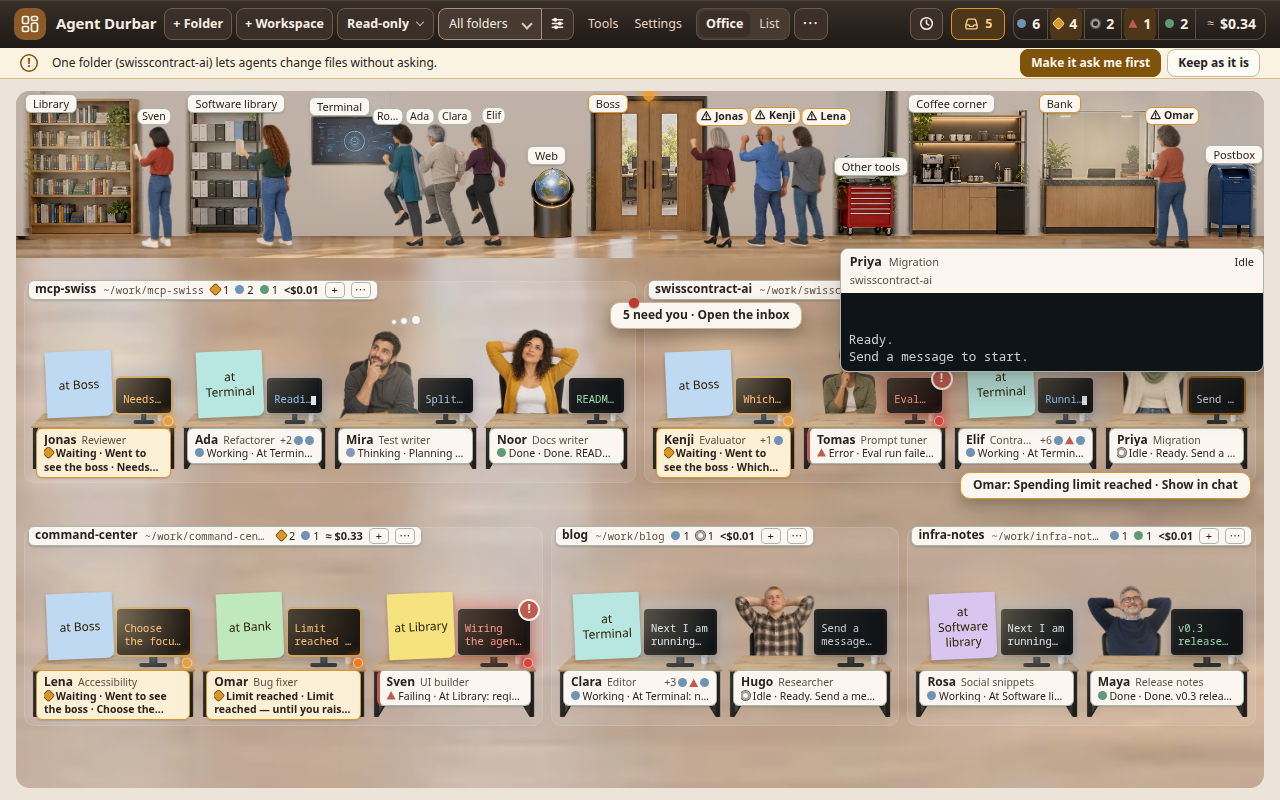
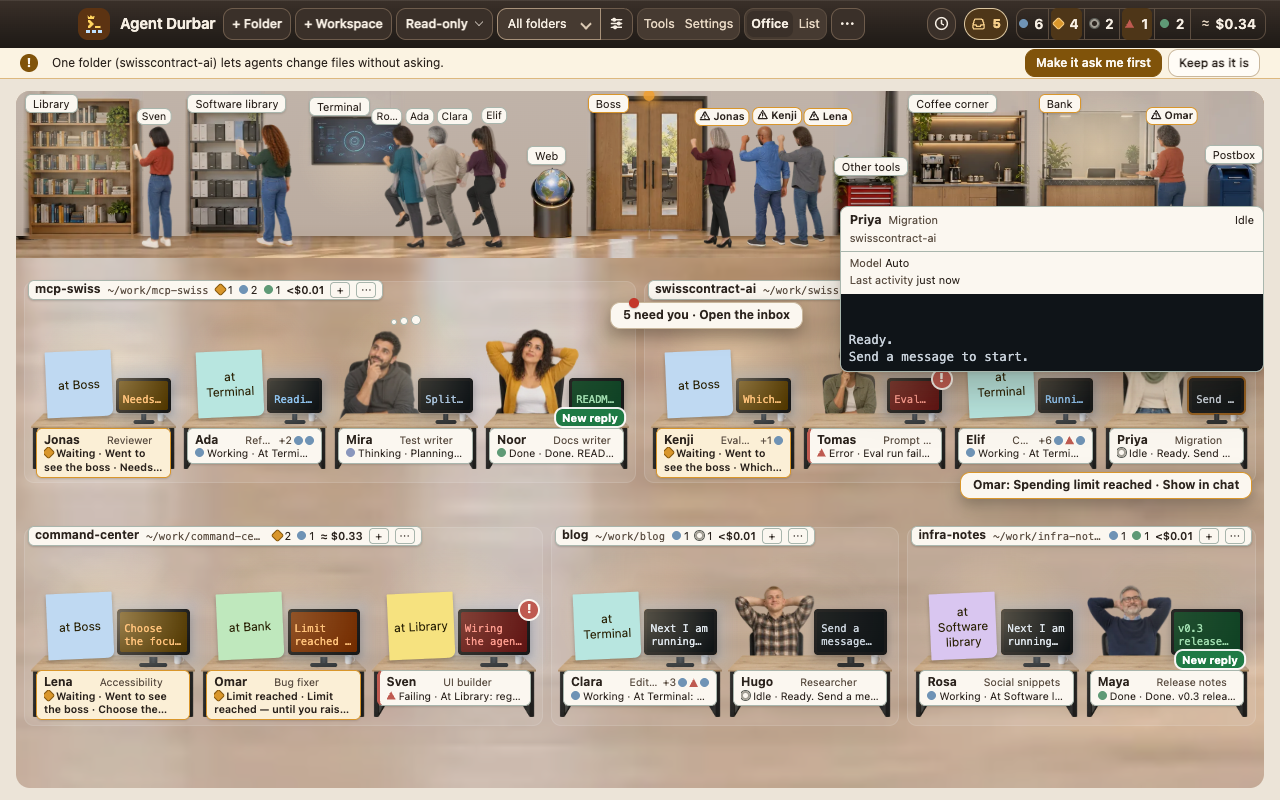
Real office: model, usage, cost, context and last tool in the zoom (#1148)

diff --git a/src/renderer/realoffice.js b/src/renderer/realoffice.js
@@ -324,7 +324,7 @@
     if (ZOOM && !ZOOM.panel.isConnected) closeZoom();
     const sized = view.w + 'x' + view.h, sameSize = !!CUR && CUR.sized === sized && !!CUR.painted;
     const wasLive = CUR && CUR.ro === ro ? CUR.live : undefined;
-    CUR = { pixelArt: !!meta.pixelArt, ro, live: opts.live, screenOf: opts.screenOf || null, sized, still: !!opts.still, hold: !!opts.hold, desks: new Map(lay.zones.flatMap((z) => z.desks.map((d) => [d.id, d])).concat(lay.lounge ? lay.lounge.desks.map((d) => [d.id, d]) : [])), agents: new Map(model.folders.flatMap((f) => f.agents.map((a) => [a.id, { ...a, folder: f.name }]))), drawn, scroll: !!lay.scroll };
+    CUR = { pixelArt: !!meta.pixelArt, ro, live: opts.live, screenOf: opts.screenOf || null, factsOf: opts.factsOf || null, sized, still: !!opts.still, hold: !!opts.hold, desks: new Map(lay.zones.flatMap((z) => z.desks.map((d) => [d.id, d])).concat(lay.lounge ? lay.lounge.desks.map((d) => [d.id, d]) : [])), agents: new Map(model.folders.flatMap((f) => f.agents.map((a) => [a.id, { ...a, folder: f.name }]))), drawn, scroll: !!lay.scroll };
     SLIDE = sameSize && moving() && !hiddenNow();
     CUR.painted = true;
     ro.classList.toggle('paused', hiddenNow()); if (hiddenNow()) finishMoves(ro);
@@ -809,7 +809,7 @@
     if (data.caret && !s.caret) { s.caret = document.createElement('i'); s.caret.className = 'ro-caret'; s.box.appendChild(s.caret); const m = L.personMotion(id, 'typeA', d.state); setVar(s.caret, '--ro-per', '1.2s'); s.caretMs = m.offset; if (moving()) { clock(s.caret, m.offset); if (CUR && !CUR.pixelArt) onGrid(s.caret); }; }
     else if (!data.caret && s.caret) { s.caret.remove(); s.caret = null; }
     s.painted = true;
-    if (ZOOM && ZOOM.id === id) fillZoom();
+    if (ZOOM && ZOOM.id === id) { const k = ZOOM.kh; fillZoom(); if (k !== ZOOM.kh) placeZoom(); }
   }
 
   /* FR-074: a window hidden or back; FR-181: desks scrolled away stand still and do not paint, and catch up once when they are back */
@@ -853,6 +853,7 @@
 
   /* ---- FR-034: the zoom ---- */
   const ZOOM_W = [380, 480], ZOOM_HEAD = 44, ZOOM_LH = 17, ZOOM_ROWS = 12, ZOOM_MIN_ROWS = 4;
+  const ZWIDE = new Set(['Model', 'Now', 'Last tool', 'Usage']);
   function wireZoom(ro) {
     let wait = 0;
     ro.addEventListener('pointermove', (e) => {
@@ -891,7 +892,7 @@
     if (!ZOOM || ZOOM.id !== id) {
       closeZoom();
       const p = document.createElement('div'); p.className = 'ro-zoom'; p.id = 'roZoom'; p.setAttribute('role', 'region');
-      p.innerHTML = '<div class="ro-zh"><b></b><span class="ro-zr"></span><span class="ro-zs"></span><span class="ro-zf"></span></div><div class="ro-zb"><div class="ro-zl"></div></div>';
+      p.innerHTML = '<div class="ro-zh"><b></b><span class="ro-zr"></span><span class="ro-zs"></span><span class="ro-zf"></span></div><div class="ro-zk"></div><div class="ro-zb"><div class="ro-zl"></div></div>';
       CUR.ro.appendChild(p);
       ZOOM = { id, hover: false, focus: false, panel: p, plate: CUR.ro.querySelector('.ro-plate[data-id="' + CSS.escape(id) + '"]') };
       if (ZOOM.plate) ZOOM.plate.setAttribute('aria-describedby', 'roZoom');
@@ -923,6 +924,12 @@
     const data = CUR.screenOf(ZOOM.id, d.state, a.word);
     const host = p.querySelector('.ro-zl');
     fillRows(host, data.lines);
+    /* spec 097 FR-312: the facts, label and text, two to a line; textContent only */
+    const facts = (CUR.factsOf ? CUR.factsOf(ZOOM.id) : []).slice(0, 8), kb = p.querySelector('.ro-zk');
+    kb.textContent = '';
+    for (const [k, v] of facts) { const l = document.createElement('span'); l.className = ZWIDE.has(k) ? 'ro-zi ro-zw' : 'ro-zi'; const kk = document.createElement('span'); kk.className = 'ro-zy'; text(kk, k); l.appendChild(kk); l.appendChild(document.createTextNode(' ')); const vv = document.createElement('span'); vv.className = 'ro-zv'; text(vv, v); l.appendChild(vv); kb.appendChild(l); }
+    const wide = facts.filter(([k]) => ZWIDE.has(k)).length; /* long ones take a whole line, cut with an ellipsis when too long (FR-313) */
+    ZOOM.kh = facts.length ? (wide + Math.ceil((facts.length - wide) / 2)) * ZOOM_LH + 8 : 0; kb.hidden = !facts.length;
     ZOOM.rows = data.lines.reduce((n, l) => n + Math.max(1, Math.ceil(Array.from(l.t).length / 52)), 0);
   }
   function placeZoom() {
@@ -932,10 +939,10 @@
     if (ZOOM.plate) avoid.push(near(ZOOM.plate));
     const view = { x: Math.max(0, f.left - o.left), y: Math.max(0, f.top - o.top), w: Math.min(f.right, o.right) - Math.max(f.left, o.left), h: Math.min(f.bottom, o.bottom) - Math.max(f.top, o.top) };
     const w = Math.max(ZOOM_W[0], Math.min(ZOOM_W[1], view.w * 0.34));
-    const rows = Math.max(ZOOM_MIN_ROWS, Math.min(ZOOM_ROWS, ZOOM.rows || 0));
-    const r = X().zoomRect(d.screen, avoid, view, { w, h: ZOOM_HEAD + rows * ZOOM_LH + 12, minH: ZOOM_HEAD + ZOOM_MIN_ROWS * ZOOM_LH + 12 });
+    const HEAD = ZOOM_HEAD + (ZOOM.kh || 0), rows = Math.max(ZOOM_MIN_ROWS, Math.min(ZOOM_ROWS, ZOOM.rows || 0));
+    const r = X().zoomRect(d.screen, avoid, view, { w, h: HEAD + rows * ZOOM_LH + 12, minH: HEAD + ZOOM_MIN_ROWS * ZOOM_LH + 12 });
     box(ZOOM.panel, r); ZOOM.panel.dataset.side = r.side;
-    setVar(ZOOM.panel, '--ro-zh', Math.max(1, Math.floor((r.h - ZOOM_HEAD - 8) / ZOOM_LH)) * ZOOM_LH + 'px');
+    setVar(ZOOM.panel, '--ro-zh', Math.max(1, Math.floor((r.h - HEAD - 8) / ZOOM_LH)) * ZOOM_LH + 'px');
     /* what the panel covers whole stands still until it closes */
     const under = [];
     for (const [id, de] of CUR.desks) if (id !== ZOOM.id && de.person && de.person.x >= r.x && de.person.x + de.person.w <= r.x + r.w && de.person.y >= r.y && de.person.y + de.person.h <= r.y + r.h) { under.push(id); setOff(id, true); }

diff --git a/src/renderer/app.js b/src/renderer/app.js
@@ -952,15 +952,22 @@ function grownLine(a){
 }
 /* spec 001 FR-047: the side of a wide grown desk: the last reply (when the main text is not already showing it) and the facts (the tool of
    this turn, usage, context, time). Shown only when the render pass gives the card two or three columns (data-gc); hidden in the probe. */
-function grownSideHTML(a){
-  if(a.parent)return '';
-  const rep=grownShowsReply(a)?'':replyExcerpt(a), r=liveShown(a), facts=[];
-  if(r&&r.tool)facts.push([r.kind==='tool'?'Now':'Last tool',r.tool]);
+/* the facts of a desk in the flat office's words (FR-047), shared by the grown desk's side and the Real office zoom (spec 097 FR-312): [[label, text]] */
+function deskFacts(a,withModel){
+  const facts=[], r=liveShown(a);
+  if(withModel&&a.live&&a.info){try{const m=modelLabel(a.info).text;if(m)facts.push(['Model',m]);}catch(e){}}
+  if(r&&r.tool)if(LIVE_MASK)facts.push([r.kind==='tool'?'Now':'Last tool',LIVE_MASK.home(r.tool)]); /* the readout's tool phrase is masked for secrets; the log lines also lose home paths (FR-314) */
   const u=usageLong(a);
   if(u){const p=u.split(' · ');if(p.length>2){facts.push(['Usage',p.slice(0,2).join(' · ')]);facts.push(['Cost',p.slice(2).join(' · ')]);}else facts.push(['Usage',u]);}
   try{const c=window.DurbarScreens&&window.DurbarScreens.ctxChip(a);if(c&&c.cls!=='unk')facts.push(['Context',c.text.replace(/^Context /,'')]);}catch(e){}
   const busy=a.busySince&&(a.state==='working'||a.state==='thinking')?ACT.agoLong(Date.now()-a.busySince):'', last=ACT.agoLong(sinceLast(a));
   if(busy)facts.push(['On this task',busy==='just now'?'just started':busy.replace(/ ago$/,'')]); else if(last)facts.push(['Last activity',last]);
+  return facts;
+}
+const realFacts=id=>{const a=byId(id);return a&&!a.parent?deskFacts(a,true).map(([k,v])=>[k,deskMask(v)]):[];}; /* the desk readout's own masker: home paths too (FR-314) */
+function grownSideHTML(a){
+  if(a.parent)return '';
+  const rep=grownShowsReply(a)?'':replyExcerpt(a), facts=deskFacts(a,false);
   return `<span class="gx"${rep?' data-rep="1"':''}>${rep?`<span class="gx-r"><span class="gx-h">Last reply</span><span class="gx-t">${esc(rep)}</span></span>`:''}<span class="gx-f">${facts.map(([k,v])=>`<span class="gx-l"><span class="gx-k">${esc(k)}</span> ${esc(v)}</span>`).join('')}</span></span>`;
 }
 const liveAttrs=a=>{if(a.parent)return '';const r=LIVE_SIDE?null:liveShown(a);return ` data-live="${esc(a.id)}"${r?` data-lk="${r.kind}"`:''}`;};
@@ -1765,7 +1772,7 @@ function renderReal(stage,floor,aw,ah,model,empty){
   }
   if(stage.dataset.d!=='real'){stage.dataset.d='real';stage.textContent='';}
   layoutKey='';GROW=0;setGrow(stage,0);spreadOffice(stage,false);stagePrev=null;
-  RO_LAST=window.DurbarRealOffice.render(stage,Object.assign(realModel(model),empty?{empty}:{}),{w:aw,h:ah},{live:liveOn(),still:REDUCED||!MOTION||STILL_HL,hold:roFrozen(),screenOf:realScreen,world:pp.world,set:pp.set,remember:rememberOn(), /* FR-071: Settings > Motion (still above) stops the people */
+  RO_LAST=window.DurbarRealOffice.render(stage,Object.assign(realModel(model),empty?{empty}:{}),{w:aw,h:ah},{live:liveOn(),still:REDUCED||!MOTION||STILL_HL,hold:roFrozen(),screenOf:realScreen,factsOf:realFacts,world:pp.world,set:pp.set,remember:rememberOn(), /* FR-071: Settings > Motion (still above) stops the people */
     rand:CREW&&(SIM||!rememberOn())?CREW.seededRand:Math.random,onArt:()=>scheduleRender()});
   stage.style.width=aw+'px';stage.style.height=RO_LAST.height+'px';
   stage.dataset.fit=RO_LAST.scroll?'scroll':'ok';floor.classList.toggle('scrolls',!!RO_LAST.scroll);

diff --git a/scripts/shots-097-screens.js b/scripts/shots-097-screens.js
@@ -156,7 +156,7 @@ module.exports = async (ctx) => {
         return {w:b.width,h:b.height,side:P.dataset.side,inWin:b.left>=0&&b.top>=0&&b.right<=innerWidth&&b.bottom<=innerHeight,inFloor:b.left>=fl.left-0.5&&b.right<=fl.right+0.5&&b.top>=fl.top-0.5&&b.bottom<=fl.bottom+0.5,
           own:hit(own),needs:[...document.querySelectorAll('.ro-plate:is(.st-waiting,.st-limit),.ro-lplate.wait,.ro-chip.wait')].filter(hit).map(e=>e.textContent.slice(0,20)),
           font:rows.length?parseFloat(getComputedStyle(rows[0]).fontSize):0,fonts:[...P.querySelectorAll('.ro-zh *')].map(e=>parseFloat(getComputedStyle(e).fontSize)),role:P.getAttribute('role'),name:P.getAttribute('aria-label'),live:P.getAttribute('aria-live'),
-          blur:getComputedStyle(P).backdropFilter,desc:own.getAttribute('aria-describedby'),head:P.querySelector('.ro-zh').textContent,rows:rows.length,text:P.textContent,
+          blur:getComputedStyle(P).backdropFilter,desc:own.getAttribute('aria-describedby'),head:P.querySelector('.ro-zh').textContent,rows:rows.length,text:P.textContent,facts:[...P.querySelectorAll('.ro-zk .ro-zi')].map(e=>e.textContent),kfonts:[...P.querySelectorAll('.ro-zk *')].map(e=>parseFloat(getComputedStyle(e).fontSize)),kclip:[...P.querySelectorAll('.ro-zk .ro-zi')].filter(e=>!/^(Now|Last tool) /.test(e.textContent)).some(e=>e.scrollWidth>e.clientWidth+1),kin:(()=>{const k=P.querySelector('.ro-zk');if(!k||k.hidden)return true;const q=k.getBoundingClientRect();return q.bottom<=b.bottom&&q.top>=b.top&&q.right<=b.right+0.5;})(),
           lastVisible:rows.length?(()=>{const l=rows[rows.length-1].getBoundingClientRect();return l.bottom<=b.bottom&&l.top>=b.top;})():false,
           tags:P.querySelectorAll('a,img,script').length,under:document.elementFromPoint(${p.x},${p.y})&&document.elementFromPoint(${p.x},${p.y}).closest('.ro-zoom')?1:0};})()`);
       assert.ok(z.w >= 380 && z.w <= 480, i + ': 380-480 px wide: ' + z.w);
@@ -169,9 +169,14 @@ module.exports = async (ctx) => {
       assert.strictEqual(z.desc, 'roZoom', 'its plate is described by it');
       assert.strictEqual(z.blur, 'none', 'FR-182: no blur');
       assert.ok(z.rows >= 1 && z.lastVisible, 'the newest line in view');
+      /* spec 097 FR-312..FR-314: the facts in the flat office's words, readable, inside the panel, nothing but text */
+      assert.ok(z.facts.some((f) => /^Model /.test(f)), i + ': the zoom names the model: ' + JSON.stringify(z.facts));
+      assert.ok(z.facts.every((f) => /^(Model|Now|Last tool|Usage|Cost|Context|On this task|Last activity) /.test(f)), i + ': only the flat office\'s labels: ' + JSON.stringify(z.facts));
+      assert.ok(z.kfonts.length && z.kfonts.every((f) => f >= 10.5), i + ': the facts at least 10.5 px');
+      assert.ok(z.kin && !z.kclip, i + ': the facts inside the panel, no clipped item: ' + JSON.stringify(z.facts));
       assert.strictEqual(z.tags, 0, 'text only');
       assert.strictEqual(z.under, 0, 'it does not cover the pointer\'s screen');
-      for (const bad of ['ghp_', 'A1b2C3d4', 'alice', 'evil.example']) assert.ok(!z.text.includes(bad), `the zoom shows "${bad}"`);
+      for (const bad of ['ghp_', 'A1b2C3d4', 'alice', 'evil.example']) assert.ok(!z.text.includes(bad), `the zoom shows "${bad}": ${JSON.stringify(z.facts)} ${z.head}`);
       placed[z.side] = (placed[z.side] || 0) + 1;
     }
     console.log('[097-screens] zoom sides', w, h, JSON.stringify(placed));

diff --git a/src/renderer/realoffice.css b/src/renderer/realoffice.css
@@ -67,6 +67,11 @@
 .ro-zr,.ro-zf{color:var(--muted);white-space:nowrap;overflow:hidden;text-overflow:ellipsis}
 .ro-zs{white-space:nowrap;overflow:hidden;text-overflow:ellipsis;text-align:right}
 .ro-zf{grid-column:1/-1}
+.ro-zk{flex:none;display:grid;grid-template-columns:1fr 1fr;column-gap:12px;padding:2px 9px 6px;font-size:11px;line-height:17px;border-top:1px solid var(--line)}
+.ro-zk[hidden]{display:none}
+.ro-zi{white-space:nowrap;overflow:hidden;text-overflow:ellipsis;min-width:0}
+.ro-zw{grid-column:1/-1}
+.ro-zy{color:var(--muted)}
 .ro-zb{position:relative;flex:1;min-height:0;overflow:hidden;background:#0f1418}
 .ro-zl .ro-sl{flex:none} /* whole lines, the newest in view */
 .ro-zoom[data-state="error"] .ro-zb{background:#1d1111}.ro-zoom:is([data-state="waiting"],[data-state="limit"]) .ro-zb{background:#1b1610}

diff --git a/docs/features.md b/docs/features.md
@@ -14,7 +14,7 @@ Where each feature works (Flat, Real office, worlds): [feature inventory](featur
 - **Still highlights (no motion)** (spec 001 FR-192, issue 780, WCAG 2.2.2): a desk that needs you or has a New reply tints its monitor's screen and its person keeps jumping and pulsing until you answer. **Settings > Highlights > Still highlights** keeps the tint and the New badge but stops that movement: the pulsing, the badge's pings and pulse, the waiting person's waving hand and the tap on the desk after a minute; in Real office the whole room stands still. It is not the same as your system's reduced motion setting, which stops every animation (some small ones, such as a theme's own figures, only follow that). Off by default; saved on this computer. A failed save says so and the switch shows what is really saved.
 - **A status pill says what it hides** (spec 001 FR-180, FR-181, issue 790): the counts in the top bar (Working, Waiting, Idle, Error, Done) are also filters. While one is on, the office and List show **Showing only idle · 3 hidden · Show all** (Show all is the same toggle as pressing the pill again; a screen reader is told once; a hidden session that needs you is named, for example *3 hidden (1 needs you)*), so a finished session the filter hides does not look lost. The chat strip still lists every open chat. Checked on the simulator only (`npm run check:ui -- --only check-status-filter`, both sizes); the reported case is not confirmed on a real run.
 - **No doors** (spec 017, removed on 2026-10-31 by the owner's decision): a session is a desk, and the plain status word (Working, Thinking, Waiting for you, Error, ...) tells its state. There are no cabin doors, meeting-room signs, desk door button, room door plates or **Close all** / **Open all**, and the layouts are **Open office** and **Real office** (the cabins choice of the **Office layout** setting is gone). **Hide folder** and floors stay. A scheduled prompt that was held behind a closed door when you updated is **never sent and never lost on its own**: one notice asks once whether to **Send** (one by one, through the schedules, so Pause all and each schedule's own limit still apply), **Discard**, or **Decide later** (the default, and Escape); what you leave undecided stays in Settings > Schedules as **Held from before the update**, with the same two actions. Every schedule now runs as normal, including those of a session that had a closed door. Remote control that a door had turned off stays off; the update never turns it on, and turning it on still needs its own confirmation. Lost with the doors, listed in spec 017: one click to hold a session's scheduled prompts (use Pause or Pause all schedules, which skip a run instead of queuing it) and one click that also cut remote control (use **Stop remote control**). The MCP tool `durbar_list_folders` no longer has a `door` field. Simulator-checked on Linux only.
-- **Real office** ([spec 097](../specs/097-real-office/spec.md), phases 1 and 2), draws the same agents as a realistic open-plan office: a person at each desk in a pose for its status, a monitor, a name plate with the status word, one zone per folder, and the places along the back wall with the agents visiting them standing on the floor in front of them, at a real person's height against the door, their name tags above their heads (a busy place widens with its crowd). Lights follow the status: a warm desk lamp while working, lamp and screen off when asleep, and the room gets a little darker as fewer agents are active. The monitor's screen says who needs you: it turns amber when the agent needs you (also on its empty desk while it waits at the Boss), red on an error, orange at the spending limit, and green for a reply you have not read yet, with a **New reply** tag above the name plate; a need always wins over a new reply, and reading the reply brings the normal screen back. The arcade's cabinet screens do the same. Every light repeats a word or an icon, nothing flashes, the lights stand still with reduced motion, with Settings > Motion off or with Still highlights (Serious mode hides the mood drawings and trouble signs, and does not stop motion), and are not drawn with forced colours ([the setting](screenshots/097-office-layout-1440x900.png); the 15-agent pictures are photos too large for the website's budget and are linked from [spec 097](../specs/097-real-office/spec.md#changes)). Open office stays the default. While Real office is shown, the whole app follows its look (the photo office's colours): a dark wood-and-glass top bar and toasts, frosted-glass menus, popovers and dialogs, warm neutrals with oak-and-amber buttons and focus rings, every text pair at WCAG AA; status colours and your theme's fonts stay, forced colours use the system colours, and leaving Real office brings your theme back. Real office loads its code, pictures and these rules only when you choose it. Its 15 people are the same for every Characters choice for now: Settings says Real office shows the Office people until that crew's own world is ready. Each monitor shows the agent's newest output, masked like the desk's live readout, a line at a time at most every 2 seconds; with 4 agents or fewer the monitors are big enough to read, and hovering a monitor (or tabbing to its desk) zooms it, beside the desk and clear of any plate that needs you; Esc closes it. People type, wave, think and rest with smooth, small movements, each on their own timing, visitors sip, knock and jog, and someone going to a place zooms out at the desk and in at the place, leaving a note on the desk that says where; the room stays still; nothing moves with reduced motion, in Serious mode or with Still highlights, while the window is hidden, or for a desk scrolled out of view. Simulator-checked at 1440x900 and 1280x800 on Clean Office. Not yet watched on real sessions. **Finished agents sit in a lounge row** (owner decision 2026-11-06): an agent that is done and whose reply you have read leaves its desk for a compact row under the desks, the person on their chair beside a small desk with a dark monitor and their name plate (asleep after 10 minutes: lamp and screen off, "z z"), so the working and waiting desks get the room. A reply you have not read yet keeps the full desk with its green screen. The same rule as the flat office's lounge (and its setting); in the Retro arcade the seats are stools beside a small console, in the free cells after the cabinets. Going back to work, the person eases back to a desk (no animation with reduced motion). Simulator-checked at both sizes.
+- **Real office** ([spec 097](../specs/097-real-office/spec.md), phases 1 and 2), draws the same agents as a realistic open-plan office: a person at each desk in a pose for its status, a monitor, a name plate with the status word, one zone per folder, and the places along the back wall with the agents visiting them standing on the floor in front of them, at a real person's height against the door, their name tags above their heads (a busy place widens with its crowd). Lights follow the status: a warm desk lamp while working, lamp and screen off when asleep, and the room gets a little darker as fewer agents are active. The monitor's screen says who needs you: it turns amber when the agent needs you (also on its empty desk while it waits at the Boss), red on an error, orange at the spending limit, and green for a reply you have not read yet, with a **New reply** tag above the name plate; a need always wins over a new reply, and reading the reply brings the normal screen back. The arcade's cabinet screens do the same. Every light repeats a word or an icon, nothing flashes, the lights stand still with reduced motion, with Settings > Motion off or with Still highlights (Serious mode hides the mood drawings and trouble signs, and does not stop motion), and are not drawn with forced colours ([the setting](screenshots/097-office-layout-1440x900.png); the 15-agent pictures are photos too large for the website's budget and are linked from [spec 097](../specs/097-real-office/spec.md#changes)). Open office stays the default. While Real office is shown, the whole app follows its look (the photo office's colours): a dark wood-and-glass top bar and toasts, frosted-glass menus, popovers and dialogs, warm neutrals with oak-and-amber buttons and focus rings, every text pair at WCAG AA; status colours and your theme's fonts stay, forced colours use the system colours, and leaving Real office brings your theme back. Real office loads its code, pictures and these rules only when you choose it. Its 15 people are the same for every Characters choice for now: Settings says Real office shows the Office people until that crew's own world is ready. Each monitor shows the agent's newest output, masked like the desk's live readout, a line at a time at most every 2 seconds; with 4 agents or fewer the monitors are big enough to read, and hovering a monitor (or tabbing to its desk) zooms it, beside the desk and clear of any plate that needs you, and shows the agent's model, usage, cost, context and last tool in the Open office's words (what is not known is left out); Esc closes it. People type, wave, think and rest with smooth, small movements, each on their own timing, visitors sip, knock and jog, and someone going to a place zooms out at the desk and in at the place, leaving a note on the desk that says where; the room stays still; nothing moves with reduced motion, in Serious mode or with Still highlights, while the window is hidden, or for a desk scrolled out of view. Simulator-checked at 1440x900 and 1280x800 on Clean Office. Not yet watched on real sessions. **Finished agents sit in a lounge row** (owner decision 2026-11-06): an agent that is done and whose reply you have read leaves its desk for a compact row under the desks, the person on their chair beside a small desk with a dark monitor and their name plate (asleep after 10 minutes: lamp and screen off, "z z"), so the working and waiting desks get the room. A reply you have not read yet keeps the full desk with its green screen. The same rule as the flat office's lounge (and its setting); in the Retro arcade the seats are stools beside a small console, in the free cells after the cabinets. Going back to work, the person eases back to a desk (no animation with reduced motion). Simulator-checked at both sizes.
 - **Live activity on the desks:** while an agent works you see what it is doing without opening the chat: the latest sentence of its thinking, the tool it runs ("Reading src/x.ts", "Running npm test") or the reply as it streams. With few agents across, a panel beside each desk shows a few lines; in a busy office it takes the line under the agent's name (the name stays). At most 4 updates a second, nothing moves, and secrets are masked like everywhere else. Settings > General > *Live activity on desks* turns it off. Simulator-checked ([sparse](screenshots/001-live-activity-side-1440x900.png), [busy](screenshots/001-live-activity-dense-1440x900.png)); not yet watched on a real session.
 - **Boss, Bank and Postbox in the lobby** (who waits, what is scheduled, who is where): an agent with a **question or a permission** for you gets up and walks to the **Boss** in the middle of the lobby and queues there, first come first served, with a small **?** or **key** on its figure; the Boss shows the longest wait ("12 min") and its desk an empty chair with *Went to see the boss*. Click a figure to open its chat at the request; once you answer, it walks back. An agent at **your spending limit** waits at the **Bank** (click: the chat with the raise-limit card); usage-window limits of the agent apps still go to the coffee corner. The **Postbox** shows the next three scheduled runs ("09:14 · mcp-swiss · Morning summary"), how many are still due today and a flag for a missed or failed run; when a schedule fires, a letter flies to that desk (not with reduced motion). Click it for Settings > Schedules. Every lobby place says **who** is there and what they do ("Ada · npm test"; initials when names do not fit, "+N" lists everyone), and room headers count in words ("4 working"). Theme words rename the three tiles (Durbar: Diwan-e-Khas, Khazana, Dak ghar). Simulator-checked at 1440x900 and 1280x800 ([office](screenshots/001-lobby-15-1440x900.png), [1280x800](screenshots/001-lobby-15-1280x800.png), [few agents](screenshots/001-lobby-3-1440x900.png), [Retro](screenshots/001-lobby-15-1440x900-retro.png)); not yet seen on a real session or on a Mac or Windows PC.
 - **Sub-agents (helpers) sit under the agent that started them, and show what they do when the office has room** (spec 001, issue 697). With few agents, while the parent desks can stay at least 1.4x grown, a helper is a **card with labelled lines** instead of a name-and-status tile: **Task**, what it does **Now** (the tool, its intent or *Thinking*), its **Result** when it is done or **Failed** with the error, and a line of facts (model, time, tool calls, tokens); the full card when there is room, name plus one line when there is less, the small tile as before when there is not even that (so 15 agents look as they did). What the agent app did not send reads *Task not reported*, *Result not reported* or *No activity reported yet*, never another field: OpenAI Codex sends no result for a helper, so its card says so. Click a card for the helper's read-only activity. A helper the agent started **in the background** (its call returns at once) stays *Running* until the helper itself finishes or fails, or its session stops (then *Failed*, "Stopped with its session") (spec 015 FR-018, simulator-checked, not seen on a real session). **Task, Result and Failed text is always on the office floor when there is room** (masked for secret shapes like everywhere else and cut to 240 characters); only the **Now** line follows *Live activity on desks*. There is no setting to hide the rest, and none is planned (owner decision, 2026-10-25), so mind screen sharing: a result can show file contents, names or other text that is not a token. Simulator-checked ([two agents, 1440x900](screenshots/001-helpers-2-1440x900.png) and [1280x800](screenshots/001-helpers-2-1280x800.png); [three agents, 1440x900](screenshots/001-helpers-3-1440x900.png) and [1280x800](screenshots/001-helpers-3-1280x800.png)); not run on a real session (what each agent app sends is read from the adapters and earlier captures, not seen live for this).

diff --git a/changelog.d/097-desk-details.md b/changelog.d/097-desk-details.md
@@ -1,0 +1,2 @@
+- **Real office: model, tokens, cost, context and the last tool in the zoom** (spec 097 FR-312..FR-315, issue #1148): hovering a monitor (or tabbing to its desk) now shows, under the agent's name, the same facts the Open office desk shows, in the same words: Model, Now or Last tool, Usage, Cost, Context and how long it has been on the task. What is not known is left out. They are masked like a screen line; the flat desk's Last tool line no longer shows a home path either. Simulator-checked at 1440x900 and 1280x800.
+  Highlight: **Real office zoom shows model, usage, cost and context**.
